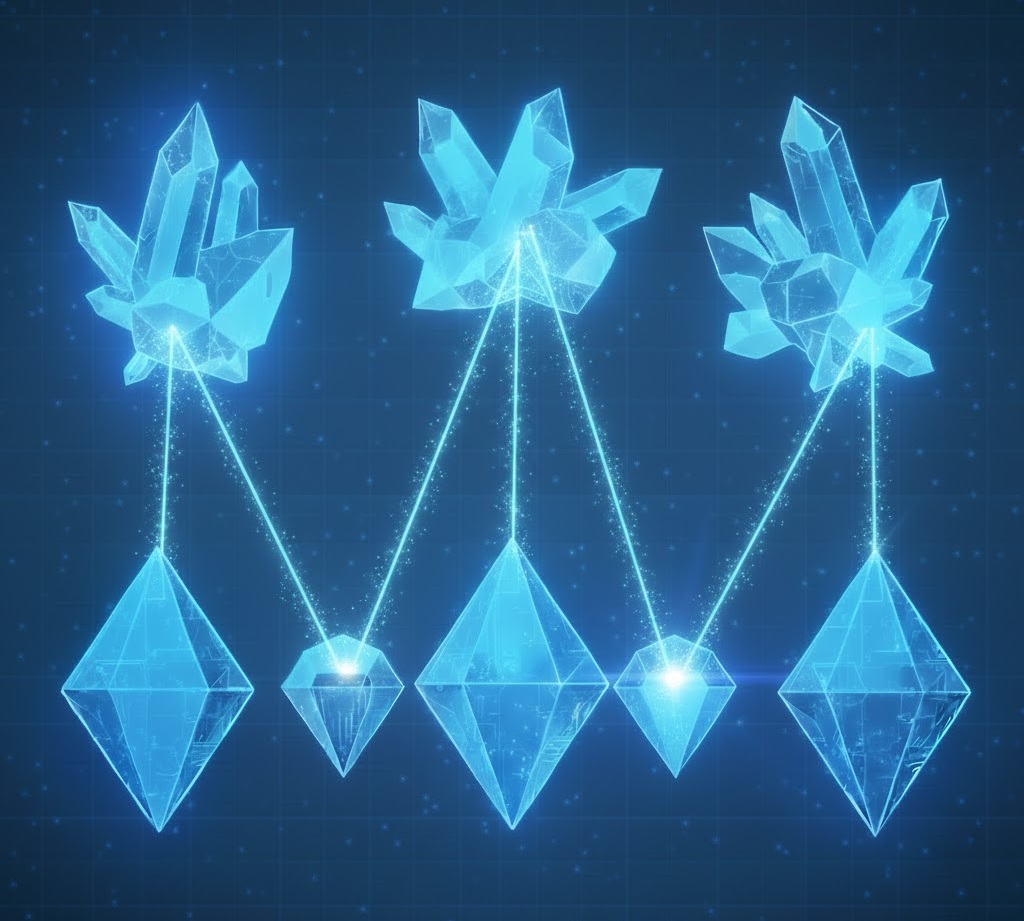
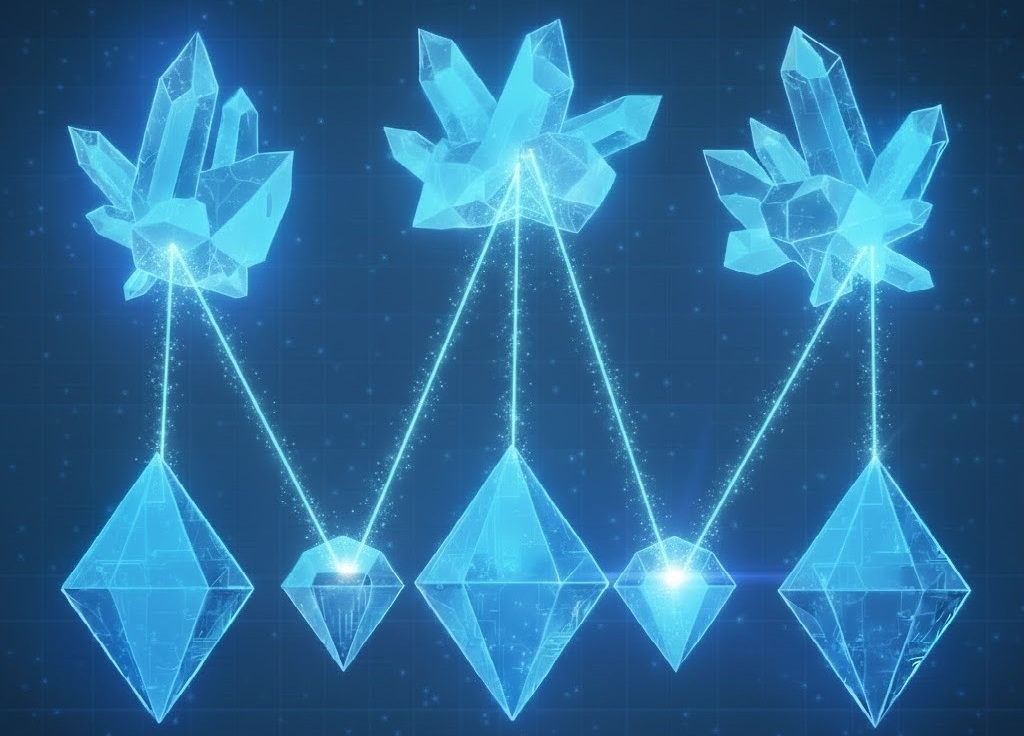
image

diff --git a/articles/modular_smart_contract_architecture.md b/articles/modular_smart_contract_architecture.md
@@ -207,7 +207,7 @@ In practice, this kind of isolation and organization makes Diamond systems easie
 ### Compose  
 *A smart contract library that helps developers build modular smart contract systems.*
 
-![Compose](https://raw.githubusercontent.com/0x76agabond/a-wanderer-notebook/refs/heads/main/images/Compose.jpg)
+<img src="https://raw.githubusercontent.com/0x76agabond/a-wanderer-notebook/refs/heads/main/images/Compose.jpg" width="400">
 
 Compose represents a new generation of Diamond tooling, built around a **Smart Contract Oriented Programming (SCOP)** approach.
 
